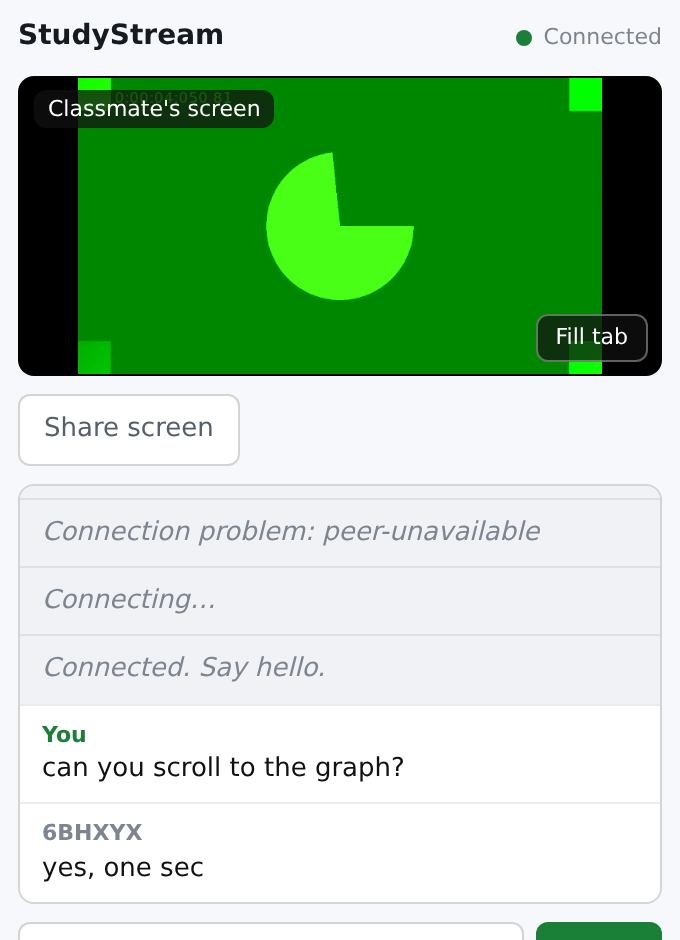
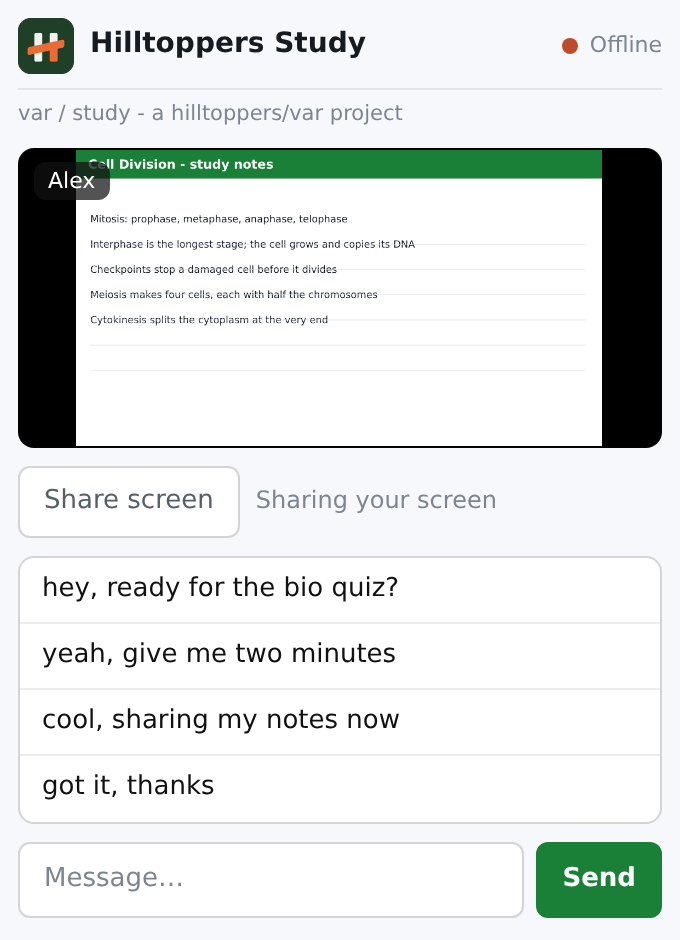
Rename the Topping to Hilltoppers Study
The title, server messages, docs and Worker responses now say
Hilltoppers Study instead of StudyStream. Live infrastructure
identifiers are left alone: the D1 database name, the peer id prefix
and the stored account keys keep their current values so an already
signed-in student is not locked out.

diff --git a/index.html b/index.html
@@ -5,7 +5,7 @@
   <meta name="viewport" content="width=device-width, initial-scale=1">
   <link rel="icon" type="image/png" href="favicon.png">
   <link rel="apple-touch-icon" href="apple-touch-icon.png">
-  <title>StudyStream</title>
+  <title>Hilltoppers Study</title>
   <link rel="stylesheet" href="style.css">
 </head>
 <body>
@@ -14,7 +14,7 @@
     <header class="topbar">
       <span class="brand-head">
         <img class="logo" src="logo.png" alt="" width="28" height="28">
-        <h1 class="app-title">StudyStream</h1>
+        <h1 class="app-title">Hilltoppers Study</h1>
       </span>
       <span class="statusbar">
         <span class="dot" id="status-dot" aria-hidden="true"></span>
@@ -27,10 +27,10 @@
       <p class="brand-credit">var / study - a hilltoppers/var project</p>
     </div>
 
-    <!-- Could not reach the StudyStream server. -->
+    <!-- Could not reach the Hilltoppers Study server. -->
     <section class="view" id="view-offline" hidden>
       <div class="card">
-        <h2 class="card-title">StudyStream is offline</h2>
+        <h2 class="card-title">Hilltoppers Study is offline</h2>
         <p class="note">The study server could not be reached. Check the connection and reload the Topping.</p>
         <button class="primary" id="retry" type="button">Try again</button>
       </div>
@@ -125,7 +125,7 @@
     <!-- One-time first-run notice. -->
     <div class="overlay" id="warning" hidden>
       <div class="card dialog" role="dialog" aria-modal="true" aria-labelledby="warning-title">
-        <h2 class="card-title" id="warning-title">How StudyStream works</h2>
+        <h2 class="card-title" id="warning-title">How Hilltoppers Study works</h2>
         <p class="note">Chat and screen sharing go straight between you and your classmate. The server only matches your codes and never sees your messages or your screen.</p>
         <p class="note">Screen sharing needs permission in the Hilltoppers popup. If the Share button does nothing, ask to have it enabled.</p>
         <div class="row end">

diff --git a/app.js b/app.js
@@ -1,4 +1,4 @@
-// StudyStream client for the Hilltoppers Topping Bar.
+// Hilltoppers Study client for the Hilltoppers Topping Bar.
 // The Topping runs in a sandboxed iframe and reports its height back to the
 // extension through resize.js. Signing in, code lookup and room authorization
 // go through the Worker's /api routes. PeerJS carries the WebRTC handshake.
@@ -73,7 +73,7 @@
   }
 
   async function api(path, options = {}) {
-    if (!API_BASE) throw new Error('StudyStream is not configured.');
+    if (!API_BASE) throw new Error('Hilltoppers Study is not configured.');
     const headers = { ...(options.headers || {}) };
     if (options.body) headers['Content-Type'] = 'application/json';
     if (state.token) headers.Authorization = 'Bearer ' + state.token;
@@ -456,8 +456,8 @@
   $('share-code').onclick = async () => {
     const url = location.origin + location.pathname;
     try {
-      if (navigator.share) await navigator.share({ title: 'StudyStream', text: 'Study with me on StudyStream. My code: ' + state.handle });
-      else await navigator.clipboard.writeText('Study with me on StudyStream: ' + url + '  My code: ' + state.handle);
+      if (navigator.share) await navigator.share({ title: 'Hilltoppers Study', text: 'Study with me on Hilltoppers Study. My code: ' + state.handle });
+      else await navigator.clipboard.writeText('Study with me on Hilltoppers Study: ' + url + '  My code: ' + state.handle);
     } catch { /* the classmate can read the code instead */ }
   };
 

diff --git a/worker/src/index.ts b/worker/src/index.ts
@@ -1,4 +1,4 @@
-// StudyStream Worker: authenticates students, owns lookup codes, and keeps the
+// Hilltoppers Study Worker: authenticates students, owns lookup codes, and keeps the
 // small session registry that lets two classmates find each other. PeerJS
 // carries the WebRTC handshake; chat and screen media never pass through here.
 import {
@@ -305,7 +305,7 @@ function handleApi(request: Request, env: Env, url: URL): Promise<Response> {
     return Promise.resolve(new Response(null, { status: origin ? 204 : 403, headers: cors }));
   }
   if (!origin) {
-    return Promise.resolve(json({ error: 'Open StudyStream to use it.' }, 403));
+    return Promise.resolve(json({ error: 'Open Hilltoppers Study to use it.' }, 403));
   }
   return apiResponse(request, env, url).then((response) => {
     for (const [name, value] of Object.entries(cors)) response.headers.set(name, value);
@@ -315,7 +315,7 @@ function handleApi(request: Request, env: Env, url: URL): Promise<Response> {
 
 async function apiResponse(request: Request, env: Env, url: URL): Promise<Response> {
   const key = requireSigningKey(env);
-  if (!key) return json({ error: 'StudyStream is not configured yet.' }, 503);
+  if (!key) return json({ error: 'Hilltoppers Study is not configured yet.' }, 503);
   const db = env.DB_BINDING;
   const now = nowSeconds();
   const path = url.pathname.replace(/^\/api/, '') || '/';

diff --git a/style.css b/style.css
@@ -1,4 +1,4 @@
-/* StudyStream Topping.
+/* Hilltoppers Study Topping.
  * Matches the Hilltoppers popup: light surface, SJA green accent, the same
  * card, button and input shapes, and the same system font stack.
  * Sized for the Topping iframe: about 318px wide, ~360px tall. No fixed pixel

diff --git a/worker/src/http.ts b/worker/src/http.ts
@@ -1,4 +1,4 @@
-// Shared HTTP + crypto helpers for the StudyStream Worker.
+// Shared HTTP + crypto helpers for the Hilltoppers Study Worker.
 
 export function json(data: unknown, status: number): Response {
   return Response.json(data, { status, headers: { 'Cache-Control': 'no-store' } });

diff --git a/config.js b/config.js
@@ -1,4 +1,4 @@
-/* Deployment settings for StudyStream.
+/* Deployment settings for Hilltoppers Study.
  *
  * STUDYSTREAM_API is the base URL of the Worker that hands out lookup codes
  * and authorizes rooms. It is empty by default, which would make the app show

diff --git a/README.md b/README.md
@@ -1,4 +1,4 @@
-# StudyStream
+# Hilltoppers Study
 
 A Hilltoppers Topping for studying with one classmate at a time: a text chat
 and a screen share, side by side, while you both work. It is a plain website
@@ -172,7 +172,7 @@ tables (any API call does it too).
 **The signing secret is the one thing to add by hand.** In the dashboard:
 Worker → **Settings → Variables and Secrets → Add → Secret**, name
 `SESSION_HMAC_KEY`, value any random string of 32+ characters. Without it the
-Worker answers `StudyStream is not configured yet`.
+Worker answers `Hilltoppers Study is not configured yet`.
 
 If you changed the binding name or database id, keep `wrangler.toml` and the
 dashboard in sync. `DB_BINDING` in `wrangler.toml` must match the variable name
